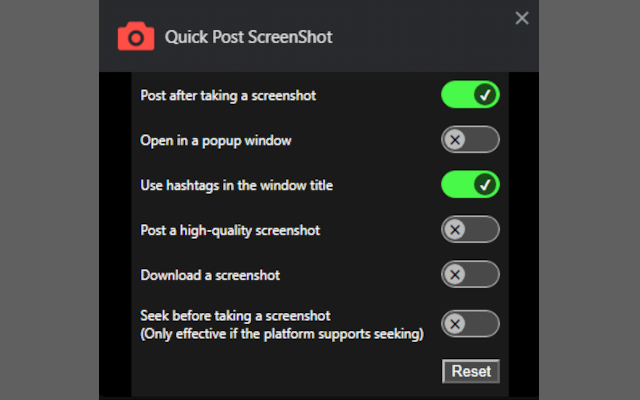
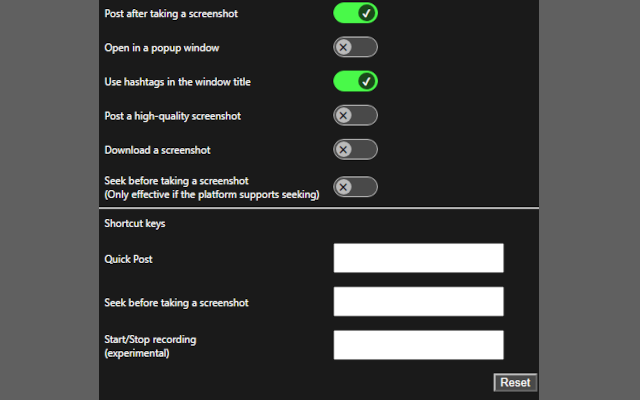
recording

Changed region(s): [[0.1562, 0.0, 0.8438, 0.99], [0.7812, 0.03, 0.8438, 0.06]]

diff --git a/index.html b/index.html
@@ -300,16 +300,17 @@ Clicking the extension icon instantly opens the X (formerly Twitter) post editor
 It is mainly intended for posting screenshots to support livestreams you are watching, such as YouTube Live broadcasts. To minimize disruption while watching a livestream, it is designed to allow you to post a screenshot instantly without cumbersome operations.
 
 - If the window title contains a hashtag, it will be reflected in the post text.
-- You can also operate it via keyboard by setting a shortcut key in Chrome's settings.
 - The post will be made from the account currently logged in.
 - When enabled, the post page can be opened in a popup window instead of a tab.
 - When enabled, image quality can be set to high (compression setting 1.0) instead of the default (compression setting 0.85).
 - When enabled, screenshots can be downloaded.
 - When enabled, you can fine-tune actions such as stepping back before posting a screenshot (only on supported platforms).
+- By setting shortcut keys, you can also operate it using the keyboard.
+- Posting recorded videos is also supported.
 
-- It cannot be used on sites such as the YouTube Embedded Player where CORS restrictions apply.
+- It cannot be used on sites such as the YouTube Embedded Player where CORS restrictions apply (e.g. Holodex).
 
-Supported Platforms: YouTube.com, Twitch
+Supported Platforms: YouTube.com, (partially Twitch)
             </pre>
                 </div>
             </div>
